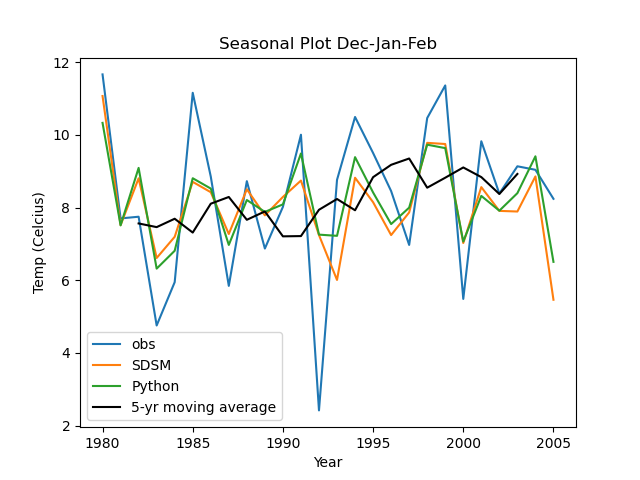
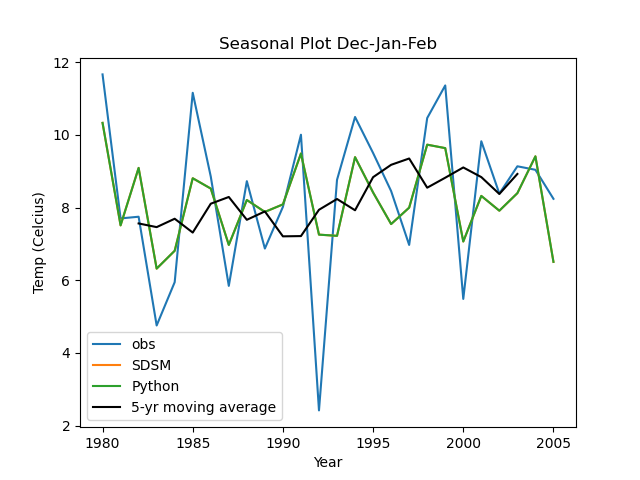
update plots

diff --git a/pythonScripts/SDSM_process.py b/pythonScripts/SDSM_process.py
@@ -16,7 +16,7 @@ lat = 38.125
 lon = -101.875
 obsPath = '/glade/p/cisl/risc/narccap/obs/gridMET/common/DCA/tmax.gridMET.NAM-22i.SGP.nc'
 save_path = '/glade/scratch/kwheelan/downscaling_data/SDSM_p1'
-pred_file = '../SDSM_p1/tmax/preds/tmax_p1_output.OUT'
+pred_file = '../SDSM_p1/tmax/preds/tmax_p1_output_no_var_inflation.OUT'
 predictand = 'tmax'
 dateStart = '1980-01-01'
 dateEnd = '2005-12-31'
